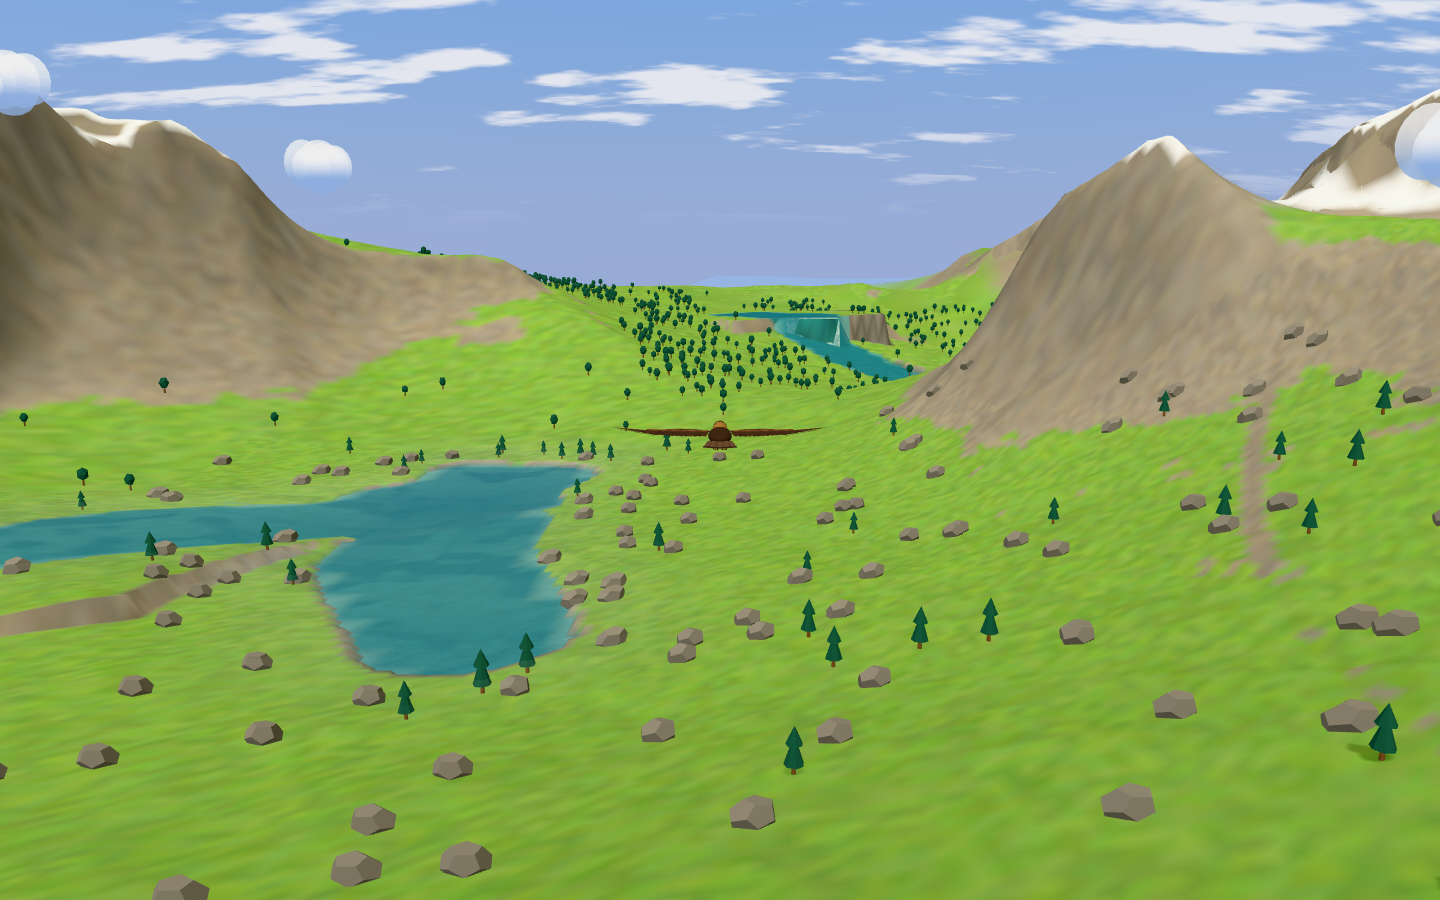
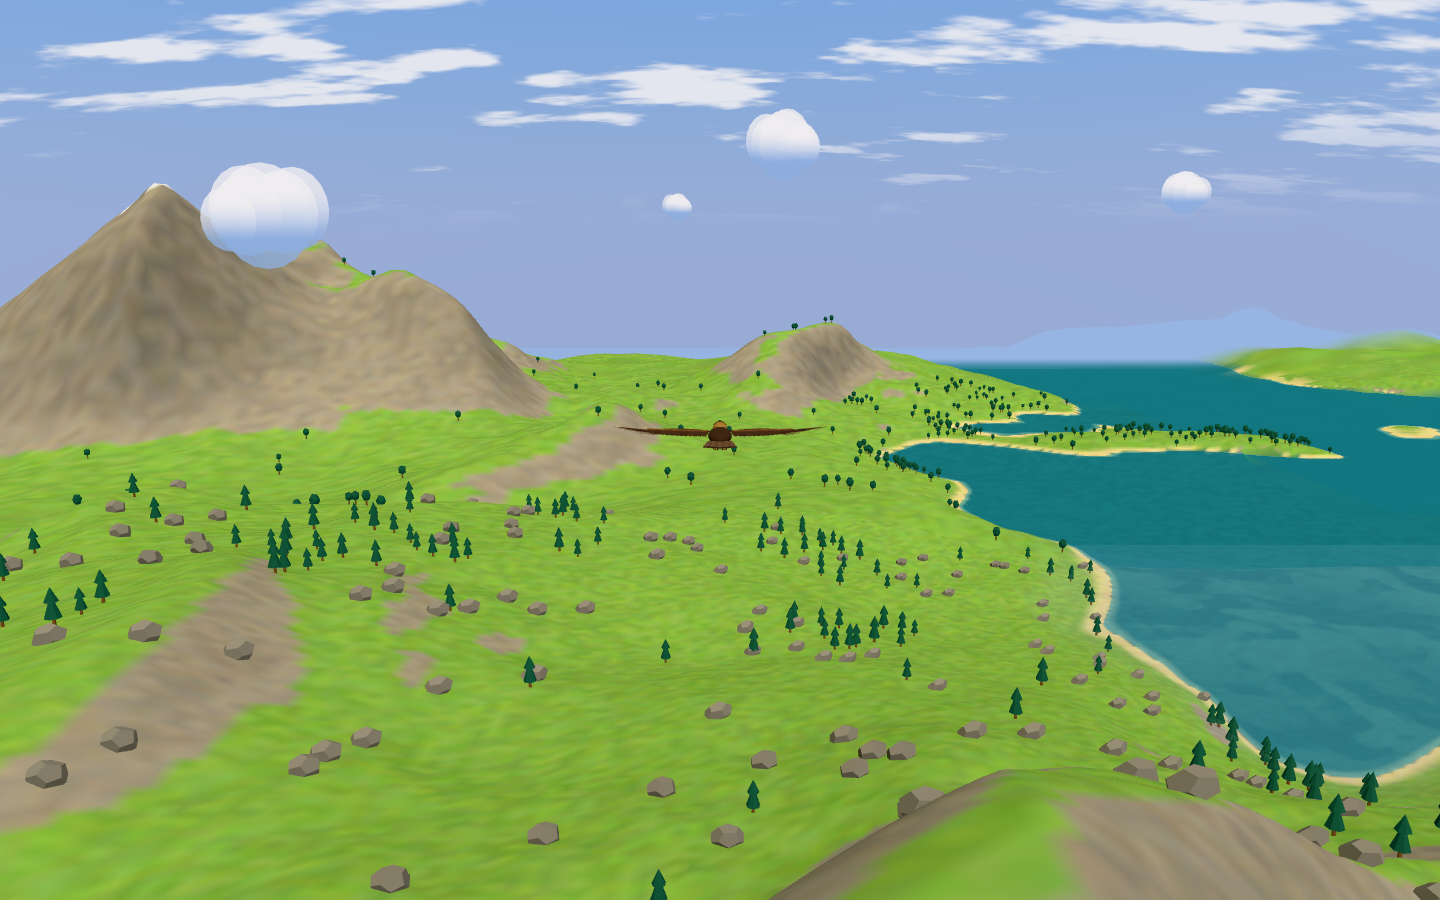
Evidence: recapture the Matched palette on continental terrain
#127 moved land and water, so four of the five review poses changed.
Before uses main a8dcdb8; after uses the palette at bb69148.

diff --git a/docs/design/biome-palette-evidence/README.md b/docs/design/biome-palette-evidence/README.md
@@ -2,17 +2,17 @@
 
 These captures review the Matched (V2) palette against the previous palette. Every before-and-after noon pair uses seed **5**, the same start position and heading, and the default chase camera. The captures use the normal development renderer, full shadows, a 5,000 m terrain range, a 1440 × 900 viewport, and pixel ratio 1. Terrain had no pending chunks before each screenshot.
 
-The before images use clean source commit `d80b813` with no palette edits. The after images use the same source commit with the palette edits in the worktree. `captures.json` records the commit, working source changes, camera state and world position for each image.
+The before images use clean `main` commit `a8dcdb8`. It has the continental terrain from #127 and the biome profile files from #133. The after images use clean branch commit `bb69148`, which is `a8dcdb8` plus this palette. `captures.json` records the commit, working source changes, camera state and world position for each image. The puff clouds move with time, so their positions differ between a before image and its after image.
 
 ## Noon before and after
 
 | Biome | World position (x, z), heading | Before | After |
 | --- | --- | --- | --- |
 | Hills | −6950, −1000; 0 | [Before](before/hills-noon.png) | [After](after/hills-noon.png) |
-| Woodland | 7600, −7250; 0 | [Before](before/woodland-noon.png) | [After](after/woodland-noon.png) |
-| Moor | −6850, 1500; 0 | [Before](before/moor-noon.png) | [After](after/moor-noon.png) |
-| Highlands | 0, 0; 0 | [Before](before/highlands-noon.png) | [After](after/highlands-noon.png) |
-| Lakeland | −10950, 1050; 0 | [Before](before/lakeland-noon.png) | [After](after/lakeland-noon.png) |
+| Woodland | 8500, −6500; 0 | [Before](before/woodland-noon.png) | [After](after/woodland-noon.png) |
+| Moor | −6000, 4000; 0 | [Before](before/moor-noon.png) | [After](after/moor-noon.png) |
+| Highlands | 4250, 1000; 0 | [Before](before/highlands-noon.png) | [After](after/highlands-noon.png) |
+| Lakeland | −11000, 500; 0 | [Before](before/lakeland-noon.png) | [After](after/lakeland-noon.png) |
 
 ## After across the day
 
@@ -38,6 +38,6 @@ node scripts/capture-biome-palette.mjs before http://127.0.0.1:4173 docs/design/
 node scripts/capture-biome-palette.mjs after http://127.0.0.1:4173 docs/design/biome-palette-evidence/after
 ```
 
-Run the `before` capture at the unmodified source commit and `after` on the palette branch. The script fixes seed, settings, viewport and camera pose. It saves per-image diagnostics in `captures.json`.
+Run the `before` capture at the unmodified `main` commit and `after` on the palette branch. The script fixes seed, settings, viewport and camera pose. It saves per-image diagnostics in `captures.json`.
 
 The [Lavish review board](http://phantom.smelt-tyrannosaurus.ts.net:4387/session/61c7c668a1d753db) presents the same captures side by side.
